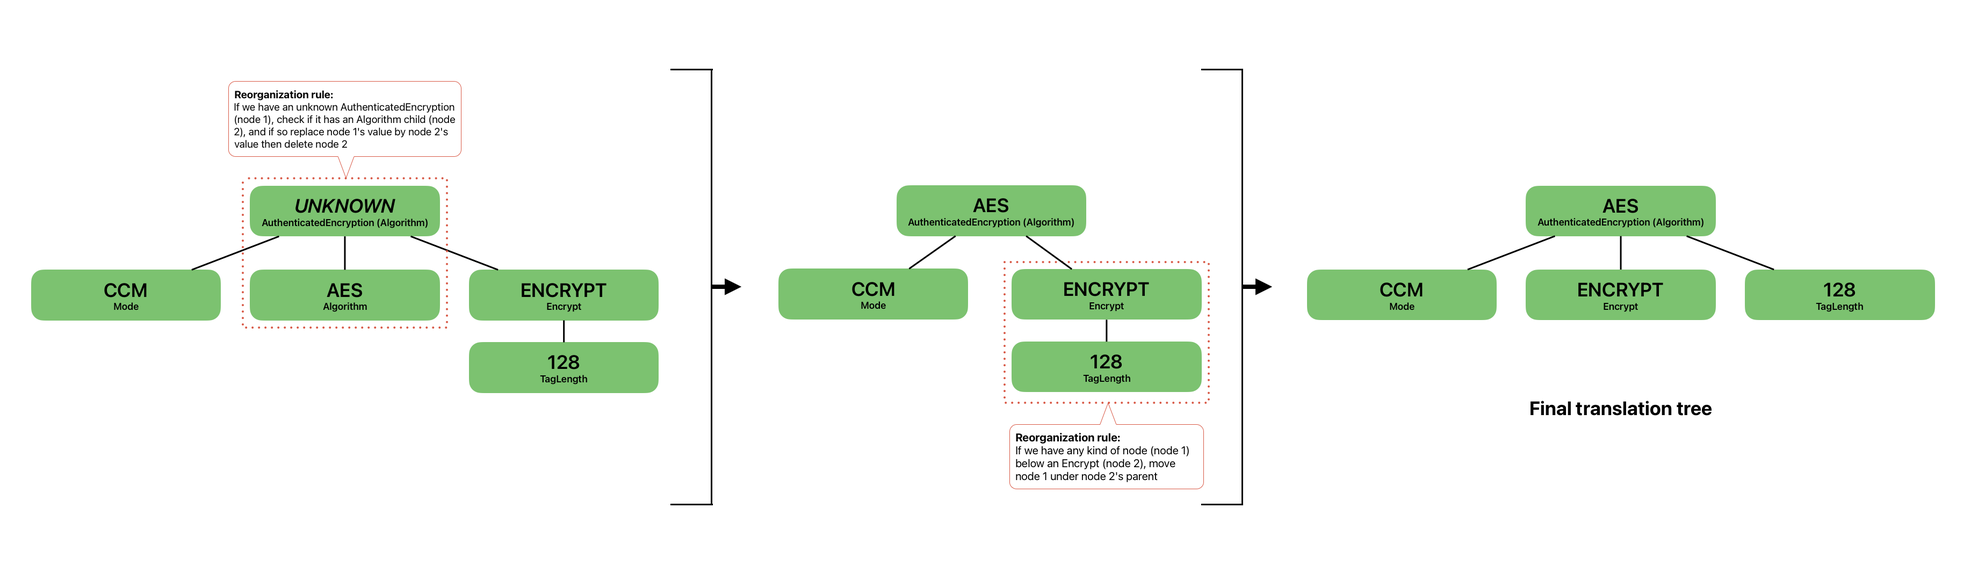
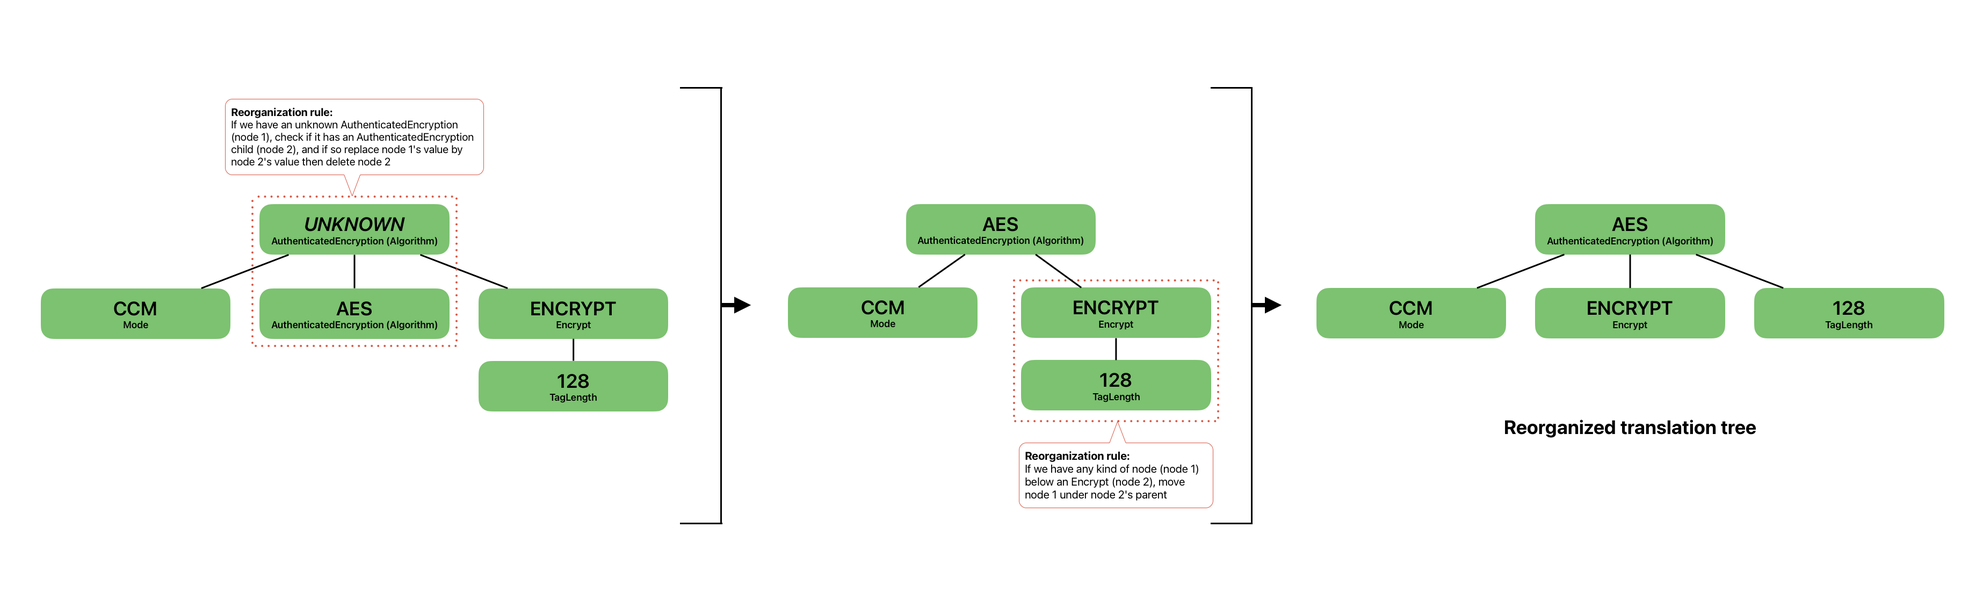
Update documentation (#156)
* changes rules image

* cbomkit mention

* clean translation process

* update language support doc

* update detection rules doc

* troubleshooting doc

---------

diff --git a/python/src/main/java/com/ibm/plugin/translation/PythonTranslationProcess.java b/python/src/main/java/com/ibm/plugin/translation/PythonTranslationProcess.java
@@ -27,7 +27,6 @@ import com.ibm.mapper.reorganizer.IReorganizerRule;
 import com.ibm.mapper.reorganizer.Reorganizer;
 import com.ibm.mapper.utils.Utils;
 import com.ibm.plugin.translation.translator.PythonTranslator;
-import java.util.Collection;
 import java.util.Collections;
 import java.util.List;
 import org.jetbrains.annotations.NotNull;
@@ -59,8 +58,8 @@ public final class PythonTranslationProcess
         Utils.printNodeTree("reorganised ", reorganizedValues);
 
         // 3. Enrich
-        final Collection<INode> enrichedValues = Enricher.enrich(reorganizedValues);
-        Utils.printNodeTree("  enriched  ", reorganizedValues);
+        final List<INode> enrichedValues = Enricher.enrich(reorganizedValues).stream().toList();
+        Utils.printNodeTree("  enriched  ", enrichedValues);
 
         return Collections.unmodifiableCollection(enrichedValues).stream().toList();
     }

diff --git a/java/src/main/java/com/ibm/plugin/translation/JavaTranslationProcess.java b/java/src/main/java/com/ibm/plugin/translation/JavaTranslationProcess.java
@@ -27,7 +27,6 @@ import com.ibm.mapper.reorganizer.IReorganizerRule;
 import com.ibm.mapper.reorganizer.Reorganizer;
 import com.ibm.mapper.utils.Utils;
 import com.ibm.plugin.translation.translator.JavaTranslator;
-import java.util.Collection;
 import java.util.Collections;
 import java.util.List;
 import javax.annotation.Nonnull;
@@ -61,8 +60,8 @@ public final class JavaTranslationProcess
         Utils.printNodeTree("reorganised", reorganizedValues);
 
         // 3. Enrich
-        final Collection<INode> enrichedValues = Enricher.enrich(reorganizedValues);
-        Utils.printNodeTree("enriched   ", reorganizedValues);
+        final List<INode> enrichedValues = Enricher.enrich(reorganizedValues).stream().toList();
+        Utils.printNodeTree("enriched   ", enrichedValues);
 
         return Collections.unmodifiableCollection(enrichedValues).stream().toList();
     }

diff --git a/docs/DETECTION_RULE_STRUCTURE.md b/docs/DETECTION_RULE_STRUCTURE.md
@@ -99,19 +99,17 @@ A detection context is therefore linked to each detected value, and is designed 
 For example, suppose you have two function calls `Cipher.getInstance("AES")` and `SecretKeyFactory.getInstance("AES")`. When writing detection rules to capture their cryptography information, you will in both cases capture the algorithm value "AES".
 But using the detection context, you can distinguish these two values. In the first case, using `buildForContext(new CipherContext())`, you can capture "AES" knowing that it is a cipher.
 In the second case, using `buildForContext(new SecretKeyContext())`, you can capture "AES" knowing that it is a secret key.
-Additionally, you can add more precise information in your context if necessary. For example, to specify that your AES cipher is a block cipher, you can use the specific context `buildForContext(new CipherContext(CipherContext.Kind.BLOCK_CIPHER))`. This context first coarsely categorizes your finding as related to ciphers, and specifies more precisely that it is a block cipher.
+Additionally, you can add more precise information in your context if necessary, using the constructor `DetectionContext(@Nonnull Map<String, String> properties)` to add (multiple) properties to any context.
+For example, to specify that your AES cipher is a block cipher, you can use the specific context `buildForContext(new CipherContext(Map.of("kind", "BLOCK_CIPHER"))`. This context first coarsely categorizes your finding as related to ciphers, and specifies more precisely that it is a block cipher.
 
 After, we have `inBundle(IBundle bundle)` that requires us to link our rule to a bundle identifier ([`IBundle`](../engine/src/main/java/com/ibm/engine/rule/IBundle.java)).
-Indeed, we may have several functions or constructors doing the same thing, typically all having the same name, but differing by the various parameters they have.
-In this case, we have to write one detection rule per function.
-But using the same bundle identifier for all these rules, we can specify that these rules all belong together.
+We typically use a short identifier of the cryptography library for the bundle, like "Jca" for JCA and "Bc" for BouncyCastle.
+This will then be useful when we translate the detected findings: we use the bundle identifier to distinguish between the cryptography libraries and apply an adequate translation.
 
 And finally, we can finish the specification of the detection rules by adding top level dependent detection rules with `withDependingDetectionRules(List<IDetectionRule<T>> detectionRules)` (or not, using `withoutDependingDetectionRules()` instead).
-These are similar to the parameter dependent rules, but instead of applying these rules on a parameter, they are applied to the object itself, i.e. to the object with which the rule matched in the first place. 
+These are similar to the parameter dependent rules, but instead of applying these rules on a parameter, they are applied to the object itself, i.e. to the object with which the rule matched in the first place[^2].
 
-> TODO: Currently, findings of top level dependent detection rules are added below *each* (top level and parameter) detections of the rules in the tree of detected values.
-> This is not a desired behavior as it duplicates information, and should be changed in the future.
-> This issue can be followed [here](https://github.com/IBM/sonar-cryptography/issues/12).
+[^2]: Currently, findings of top level dependent detection rules are added below *each* (top level and parameter) detections of the rules in the tree of detected values, *except* for parameter detections using `asChildOfParameterWithId`. More information [here](https://github.com/IBM/sonar-cryptography/pull/142).
 
 > [!TIP]
 > You will find all the classes implementing the action factories, value factories and contexts (that you may use in the functions described above) in the [`model`](../engine/src/main/java/com/ibm/engine/model/) directory of the engine.
@@ -144,7 +142,7 @@ new DetectionRuleBuilder<Tree>()
         .shouldBeDetectedAs(new BlockSizeFactory<>(Size.UnitType.BIT))
         .asChildOfParameterWithId(-1)
     .buildForContext(new CipherContext(CipherContext.Kind.MODE))
-    .inBundle(() -> "BcBlockCipher")
+    .inBundle(() -> "Bc")
     .withDependingDetectionRules(BcBlockCipherInit.rules());
 ```
 
@@ -157,6 +155,7 @@ This parameter detection is placed below the mode detection using `asChildOfPara
 To capture the first parameter, we rely instead on a list of dependent detection rules `BcBlockCipherEngine.rules()`, that should capture all the possible `BlockCipher` classes existing in the library. In our case, a dependent rule targeting `AESEngine.newInstance()` should capture the value "AES", with a context that should specify that it is the base cipher.
 
 Finally, a list of top level dependent detection rules `BcBlockCipherInit.rules()` should capture some information contained in the `cfb.init(...)` function call.
+This top level dependent detection should be placed only below the `BlockCipher` detection (and not below the `int` detection because it uses `asChildOfParameterWithId`).
 
 
 ### Special cases: no parameter and any parameters
@@ -188,14 +187,91 @@ Once you have written your detection rule, and once this rule detects findings w
 The aim of the translation is to represent these values in a standardized, language-independent tree in the cryptographic domain.
 For this, you should represent your cryptographic assets and values using the standard classes defined in the [`model`](../mapper/src/main/java/com/ibm/mapper/model/) directory of the *mapper* module (and not of the engine module like before).
 
-You should use the information contained in the detection context and the type of detection value to decide which type of translation you want to apply.
+### If your detected asset is generic
 
-With the help of some knowledge about cryptography, you can translate those findings into the correct model classes.
-It is straightforward to translate what you detected as an *Algorithm* (from `engine`) into an *Algorithm* (from `mapper`).
-But if you know that this algorithm is used for public key encryption in the specific context in which you detect it, you may keep this information by using the context `PublicKeyContext` in your detection rule, and then decide to translate it into a `PublicKeyEncryption` (which is a superclass of mapper's `Algorithm`).
+Let's start with the simplest case: suppose you are detecting a generic value, independent of any algorithm, like a key size.
+Suppose you detect the value `"256"` as a `KeySize`.
+In this case, you don't have to use algorithm-specific classes of our model, you can simply translate it to the appropriate equivalent class of the model, which is in this case `KeyLength`.
+This simple translation would look like:
+```java
+if (value instanceof KeySize<Tree> keySize) {
+    KeyLength keyLength = new KeyLength(keySize.getValue(), detectionLocation);
+    return Optional.of(keyLength);
+}
+```
 
-As a rule a thumb, there is almost always a straightforward translation of the assets you detect.
-But if you keep sufficiently enough information using the context and if you use some cryptography knowledge, you may translate your finding into a more specific class which will then bring more information into the CBOM.
+### If your detected asset is already specified in our model
+
+Let's suppose you detect the string `"AESEngine"` corresponding to the instantiation of a new AES block cipher.
+Because our model already contains the [`AES`](../mapper/src/main/java/com/ibm/mapper/model/algorithms/AES.java) algorithm, you can simply use it.
+This concretely means that in the mapper file (implementing [`IMapper`](../mapper/src/main/java/com/ibm/mapper/mapper/IMapper.java)) in which you are implementing this translation, you should return a `new Optional.of(new AES(detectionLocation))` when `parse("AESEngine", detectionLocation)` is called.
+
+Every time you are using one of these predefined model algorithm, you should have a look at its class: it may contain various constructors for various use cases.
+For example, if your `"AESEngine"` call was instead used for authenticated encryption (and you would carry this information through the detection context for example), you should instead translate it using the constructor `new AES(AuthenticatedEncryption.class, detectionLocation)`.
+
+### If your detected asset is not yet specified in our model: add it!
+
+Suppose you are detecting the string `"KalynaEngine"`, corresponding to the Kalyna block cipher which is not yet part of our model.
+We explain how you can add Kalyna to our general model, which you can then use for your translation.
+
+First, find resources about Kalyna, like its [Wikipedia page](https://en.wikipedia.org/wiki/Kalyna_(cipher)) or an official [paper](https://eprint.iacr.org/2015/650.pdf).
+Kalyna is also sometimes referred as "DSTU 7624:2014", which we will add to the class documentation.
+
+Using this knowledge, we first need to find the _base class_ of Kalyna: is it an [`Algorithm`](../mapper/src/main/java/com/ibm/mapper/model/Algorithm.java), [`Mode`](../mapper/src/main/java/com/ibm/mapper/model/Mode.java), [`Padding`](../mapper/src/main/java/com/ibm/mapper/model/Padding.java), [`EllipticCurve`](../mapper/src/main/java/com/ibm/mapper/model/EllipticCurve.java) or [`Protocol`](../mapper/src/main/java/com/ibm/mapper/model/Protocol.java)? It is an `Algorithm`.
+
+Then, we look into the _primitives_ which can apply to Kalyna: these are the classes at the root of [`model`](../mapper/src/main/java/com/ibm/mapper/model/) implementing [`IPrimitive`](../mapper/src/main/java/com/ibm/mapper/model/IPrimitive.java).
+Kalyna is mainly used as a [`BlockCipher`](../mapper/src/main/java/com/ibm/mapper/model/BlockCipher.java), but can also be used as a [`Mac`](../mapper/src/main/java/com/ibm/mapper/model/Mac.java) or a [`KeyWrap`](../mapper/src/main/java/com/ibm/mapper/model/KeyWrap.java).
+
+Therefore, we start writing the class [`Kalyna`](../mapper/src/main/java/com/ibm/mapper/model/algorithms/Kalyna.java), with its basic documentation, as:
+```java
+/**
+ *
+ *
+ * <h2>{@value #NAME}</h2>
+ *
+ * <p>
+ *
+ * <h3>Specification</h3>
+ *
+ * <ul>
+ *   <li>https://en.wikipedia.org/wiki/Kalyna_(cipher)
+ *   <li>https://eprint.iacr.org/2015/650.pdf
+ * </ul>
+ *
+ * <h3>Other Names and Related Standards</h3>
+ *
+ * <ul>
+ *   <li>DSTU 7624:2014
+ * </ul>
+ */
+public final class Kalyna extends Algorithm implements BlockCipher, Mac, KeyWrap {
+
+    private static final String NAME = "Kalyna";
+```
+
+You then should define multiple constructors which could be useful in the context of Kalyna.
+Because it is primarily a `BlockCipher`, let's add a basic constructor, and a second one adding the size of the block:
+```java
+public Kalyna(@Nonnull DetectionLocation detectionLocation) {
+    super(NAME, BlockCipher.class, detectionLocation);
+}
+
+public Kalyna(int blockSize, @Nonnull DetectionLocation detectionLocation) {
+    this(detectionLocation);
+    this.put(new BlockSize(blockSize, detectionLocation));
+}
+```
+
+Here, we have added the `BlockSize` as a parameter, but there are a lot of other building blocks in this cryptography model. You can explore all the possibilities at the root of [`model`](../mapper/src/main/java/com/ibm/mapper/model/) and in its [`functionality`](../mapper/src/main/java/com/ibm/mapper/model/functionality/) subdirectory.
+
+However, it is important to note that Kalyna is not _always_ a `BlockCipher` (as it also implements `Mac` and `KeyWrap`), and an easy way to let the user instantiate a Kalyna with the kind of its choice is to have this kind of constructor:
+```java
+public Kalyna(@Nonnull final Class<? extends IPrimitive> asKind, @Nonnull Kalyna kalyna) {
+    super(kalyna, asKind);
+}
+```
+
+### The output of the translation
 
 The translation of the tree of detected findings is done node-by-node.
 A tree of translated values is built while you are translating your detected values.
@@ -204,7 +280,7 @@ This means that the translation of a child node of a detected value will be appe
 
 | ![example of the node-by-node translation process](./images/translation.png) | 
 |:--:| 
-| *This diagram represents the node-by-node translation process. In blue, we have the tree of detected values. The dotted lines show that each detected value gets independently translated into some translated value(s), in green. At the end of the node-by-node translation process, we have a tree of translated values (right part of the diagram) which is composed of each translated value, linked with the same ordering as the tree of detected values. This current result is not satisfying, and we will explain next how we can reorganize this tree of translated values.* |
+| *This diagram represents the node-by-node translation process. In blue, we have the tree of detected values. The dotted lines show that each detected value gets independently translated into some translated value(s), in green. Note that we translate `CCMBlockCipher` into an `UNKNOWN` authenticated encryption node with a `CCM` mode node, to avoid having the mode as the parent of the algorithm (`AES`), which will make the next step (reorganization) a bit simpler. At the end of the node-by-node translation process, we have a tree of translated values (right part of the diagram) which is composed of each translated value, linked with the same ordering as the tree of detected values. This current result is not satisfying, and we will explain next how we can reorganize this tree of translated values.* |
 
 ## Reorganizing the translation tree
 

diff --git a/docs/LANGUAGE_SUPPORT.md b/docs/LANGUAGE_SUPPORT.md
@@ -76,7 +76,9 @@ The tree does not contain any semantic information about how the cryptographic v
 Ultimately, we want a meaningful representation of all cryptography-relevant values: a tree structure in which the relationships between the nodes have a meaning.
 Back to our example, we want a tree where the mode is a child node of the algorithm node, to indicate that it's the mode of this algorithm.
 
-This process of building a meaningful tree representation of the captured cryptography values is called the translation. This process is also part of the language module (like the `java` or `python` module). In certain cases where translation requires to parse a string, the parsing and translation process is outsourced to the `mapper` module for better modularity.
+This process of building a meaningful tree representation of the captured cryptography values is called the translation. This process is also part of the language module (like the `java` or `python` module).
+The translation process requires at some point to map those captured cryptography strings to a standard representation of the cryptography asset.
+For better modularity, this mapping is done as part of the `mapper` module.
 
 The last step of the translation process is called the enrichment, and is done by the `enricher` module.
 This step aims at adding content to the translated tree, based on external knowledge.
@@ -129,6 +131,17 @@ And add the dependency (using this version reference) under `<!-- language suppo
     <artifactId>sonar-java-plugin</artifactId>
     <version>${sonar.java.version}</version>
 </dependency>
+```
+
+### Specifying related file extensions
+
+Now, open the [`pom.xml`](../sonar-cryptography-plugin/pom.xml) of the `sonar-cryptography-plugin` module, and look for the tag `<requiredForLanguages>`.
+This is where you should specify the file extensions for which you want the plugin to run.
+In the case of Java, we want the Cryptography Plugin to run on `.java` and `.jsp` files, so we add these file extensions inside the tag, in addition to already existing ones (like `py` and `ipynb` below). 
+
+```xml
+<!-- This line must specify all file extensions which should be scanned by the plugin -->
+<requiredForLanguages>java,jsp,py,ipynb</requiredForLanguages>
 ```
 
 ### Identifying the four classes to use in generics
@@ -434,10 +447,9 @@ public static List<IDetectionRule<Tree>> rules() {
 Once this is done, try to run your unit test and look at the logs.
 If it works, you should see logs[^4] of your detected values, in a tree structure looking like this (but with the values of your test file that you specified to detect in *MyRule*):
 ```
-DEBUG [id: 1c259, bundle: -2060…, level: 0, hash: -8884…] (CipherContext<BLOCK_CIPHER>, ValueAction) CBC
-DEBUG [id: f5b9a, bundle: 21061…, level: 1, hash: 13077…]    └─ (CipherContext<ENCRYPTION_STATUS>, OperationMode) 0
-DEBUG [id: 7b818, bundle: 92146…, level: 1, hash: -4294…]    └─ (CipherContext<BLOCK_CIPHER_ENGINE>, ValueAction) AES
-DEBUG [id: 8d2d8, bundle: 21061…, level: 2, hash: 13077…]       └─ (CipherContext<ENCRYPTION_STATUS>, OperationMode) 0
+[id: afeca, bundle: Bc, level: 0, hash: -1948…] (CipherContext<{kind=BLOCK_CIPHER}>, ValueAction) CBCBlockCipher
+[id: cca99, bundle: Bc, level: 1, hash: 10584…]    └─ (CipherContext<{kind=ENCRYPTION_STATUS}>, OperationMode) 0
+[id: bb6ad, bundle: Bc, level: 1, hash: -6352…]    └─ (CipherContext<{kind=BLOCK_CIPHER_ENGINE}>, ValueAction) AESEngine
 ```
 
 [^4]: If you wrote your own `TestBase`, make sure that you call the `DetectionStoreLogger.print(DetectionStore ds)` method at the right place to display your findings in the logs.
@@ -487,9 +499,8 @@ java
             ├── translator
             │   └── contexts
             └── reorganizer
-                └── rules
 ```
-<p align="right"><a href="https://tree.nathanfriend.io/?s=(%27opt7s!(%27fancy!true~fullPath3~trailingSlash3~rootDot3)~8(%278%272java52src5*2main%2Fjava%2Fcom%2Fibm%2Fplugin09042detect7A42mycryptoA42...%20%5Bother%20libraries%5D067A6orA*2contextsA2reorganizerA*9%27)~vers7!%271%27)4%2005**2-%203!false4*%205%5Cn*62translat7ion8source!92rulesA0*%01A987654320*"><sub><sup>edit this tree<sub><sup></a></p>
+<p align="right"><a href="https://tree.nathanfriend.io/?s=(%27opt7s!(%27fancy!true~fullPath3~trailingSlash3~rootDot3)~8(%278%272java49src4*9main%2Fjava%2Fcom%2Fibm%2Fplugin02rules052detect7A52mycryptoA52...%20%5Bother%20libraries%5D067A6orA9contexts09reorganizer4%27)~vers7!%271%27)5%2004**9-%203!false4%5Cn5*%2062translat7ion8source!9*2A0*%01A987654320*"><sub><sup>edit this tree<sub><sup></a></p>
 
 #### The translator
 
@@ -498,19 +509,30 @@ In Java, this is the [`JavaTranslator`](../java/src/main/java/com/ibm/plugin/tra
 
 For better structure, we advise to split the translation in multiple files based on the detection context of the detected values.
 We therefore advise creating one translator file per detection context, and to store them in `translation/translator/contexts/`.
+Each of these files should implement the interface [`IContextTranslation`](../mapper/src/main/java/com/ibm/mapper/IContextTranslation.java).
 In your main translator file, you can switch over the detection context of the values of your detection store, and delegate the actual translation work to the context translator files.
 Look at how it is done in Java for more details.
 
-Additionally, if translating your assets implies parsing complicated strings (typically like `"AES/ECB/PKCS5Padding"` in Java's JCA), we recommend handling the parsing with dedicated classes of the `mapper` module.
-These classes should be in the `mapper/.../mapper/mapper/mycrypto/` directory and should implement the [`IMapper`](../mapper/src/main/java/com/ibm/mapper/mapper/IMapper.java) interface.
+In each context translation file, you may want to have a different translation process depending on the cryptography library.
+If so, have a look to how it is done in Java, where an abstract class [`JavaAbstractLibraryTranslator`](../java/src/main/java/com/ibm/plugin/translation/translator/contexts/JavaAbstractLibraryTranslator.java) implementing `IContextTranslation` is defined, and performs a switch on the bundle identifier to distinguish between the various cryptography libraries.
+Then, the various classes in the `context` folder extend this abstract class, and implement library-specific translation functions.
+
+Then for each context, you want to map each detected value (often a string) to a "standard" representation of this asset.
+Such representations form what we call the cryptography _model_, and you can find a wide variety of classes describing algorithms, modes, paddings and others in the subfolders of the mapper's [`model`](../mapper/src/main/java/com/ibm/mapper/model/) folder.
+The mapping should therefore link detected values to model classes, and should be done in the `mapper` module, with classes in the `mapper/.../mapper/mapper/mycrypto/` directory which should implement the [`IMapper`](../mapper/src/main/java/com/ibm/mapper/mapper/IMapper.java) interface.
+Typically, a mapper file provides a switch statement over a variety of possible detected values, and maps each value to a class of the `model`.
+When translating your detected values implies parsing complicated strings (typically like `"AES/ECB/PKCS5Padding"` in Java's JCA), the parsing should also be handled in those mapper classes.
+
+Ultimately, those mapper classes can be called from your context-specific translation functions.
 
 You can now add content to these files to translate the findings from your first detection rule, following the section [*Translating findings of a detection rule*](./DETECTION_RULE_STRUCTURE.md#translating-findings-of-a-detection-rule).
 
 #### The reorganization
 
-In the directory `translation/reorganizer/`, start by creating your file listing all reorganization rules for your language. In Java, this is the [`JavaReorganizerRules`](../java/src/main/java/com/ibm/plugin/translation/reorganizer/JavaReorganizerRules.java) class.
+Reorganization rules can be added in the [`reorganizer/rules/`](../mapper/src/main/java/com/ibm/mapper/reorganizer/rules/) directory of the mapper, independently of the programming language and cryptography library (a same rule could be reused in multiple cases).
+You can use the helpers defined in [`UsualPerformActions.java`](../mapper/src/main/java/com/ibm/mapper/reorganizer/UsualPerformActions.java) to easily write common reorganization rules.
 
-All these reorganization rules should then be stored in `translation/reorganizer/rules/`, with the structure of your choice.
+Then, in the directory `translation/reorganizer/`, create a file listing all reorganization rules for your language. In Java, this is the [`JavaReorganizerRules`](../java/src/main/java/com/ibm/plugin/translation/reorganizer/JavaReorganizerRules.java) class.
 
 If necessary, you can now reorganize the translation of the findings of your first detection rule, following the section [*Reorganizing the translation tree*](./DETECTION_RULE_STRUCTURE.md#reorganizing-the-translation-tree).
 
@@ -521,6 +543,7 @@ In `translation/`, start by creating a file controlling the translation process 
 In Java, this is [`JavaTranslationProcess`](../java/src/main/java/com/ibm/plugin/translation/JavaTranslationProcess.java).
 
 This is where you will apply the translation and reorganization steps, as well as the enrichment process, which is a step adding external information to the translation tree, as mentioned [earlier](#the-translation).
+Make sure to log the translated, reorganized and enriched trees of findings by calling `Utils.printNodeTree(List<INode> nodes)` at the right places (with `Utils` from `com.ibm.mapper.utils`).
 These steps must be called in the `initiate` function, which looks like this in Java:
 ```java
 @Override
@@ -529,26 +552,29 @@ public List<INode> initiate(
     @Nonnull
         DetectionStore<JavaCheck, Tree, Symbol, JavaFileScannerContext> rootDetectionStore) {
     // 1. Translate
-    JavaTranslator javaTranslator = new JavaTranslator(rule);
-    List<INode> translatedValues = javaTranslator.translate(rootDetectionStore);
+    final JavaTranslator javaTranslator = new JavaTranslator();
+    final List<INode> translatedValues = javaTranslator.translate(rootDetectionStore);
+    Utils.printNodeTree("translated ", translatedValues);
 
     // 2. Reorganize
-    Reorganizer javaReorganizer = new Reorganizer(reorganizerRules);
-    List<INode> reorganizedValues = javaReorganizer.reorganize(translatedValues);
+    final Reorganizer javaReorganizer = new Reorganizer(reorganizerRules);
+    final List<INode> reorganizedValues = javaReorganizer.reorganize(translatedValues);
+    Utils.printNodeTree("reorganised", reorganizedValues);
 
     // 3. Enrich
-    Enricher.enrich(reorganizedValues);
+    final List<INode> enrichedValues = Enricher.enrich(reorganizedValues).stream().toList();
+    Utils.printNodeTree("enriched   ", enrichedValues);
 
-    return reorganizedValues;
+    return Collections.unmodifiableCollection(enrichedValues).stream().toList();
 }
 ```
 
 Finally, this translation process file should be registered in two places:
 - In your class implementing the language-specific sonar visitor class ([`JavaBaseDetectionRule`](../java/src/main/java/com/ibm/plugin/rules/detection/JavaBaseDetectionRule.java) in Java), mentioned in [here](#the-check-registrar-extension-point).
-- In your `TestBase` class ([`TestBase`](../java/src/test/java/com/ibm/plugin/TestBase.java) in Java), mentioned in [here](#organizing-your-files). Also makes sure to log the translated tree of findings by calling `Utils.printNodeTree(List<INode> nodes)` at the right place (with `Utils` from `com.ibm.mapper.utils`).
+- In your `TestBase` class ([`TestBase`](../java/src/test/java/com/ibm/plugin/TestBase.java) in Java), mentioned in [here](#organizing-your-files).
 
 You can now run again your unit test to check whether your detected values are correctly translated.
-If your implementation works, you should observe logs displaying the translated (and potentially reorganized) trees, after the initial logs of the detected values.
+If your implementation works, you should observe logs displaying the translated (and potentially reorganized/enriched) trees, after the initial logs of the detected values.
 
 
 ### Writing assert statements
@@ -560,7 +586,7 @@ For this, we advise writing exhaustive assert statements for each unit test, che
 You can look into existing unit tests to know how these assert statements are written.
 
 If you have to write a lot of assert statements for a lot of detection rules, you may want to automate this process.
-While we do not provide a generic methodology to do so, we have done it for Java, with [`GenerateAssertsHelper`](../java/src/test/java/com/ibm/plugin/utils/GenerateAssertsHelper.java) (documented in its file), which can easily be reused for another language, requiring only minor modifications.
+While we do not provide a generic methodology to do so, we have done it for Java (and Python), with [`GenerateAssertsHelper`](../java/src/test/java/com/ibm/plugin/utils/GenerateAssertsHelper.java) (documented in its file), which can easily be reused for another language, requiring only minor modifications.
 
 
 ### Going further: using graph visualization to better understand dependent detection rules

diff --git a/docs/TROUBLESHOOTING.md b/docs/TROUBLESHOOTING.md
@@ -4,7 +4,7 @@ If you are new to SonarQube, or if you did not manage to obtain results with our
 
 ## Installing SonarQube with the plugin
 > [!IMPORTANT]
-> Make sure you use a version of SonarQube supported by our plugin. Currently, SonarQube versions `10.5` and above (including the latest) version are not supported, and we advise installing SonarQube `10.4`.
+> Make sure you use a version of SonarQube supported by our plugin. See [here](../README.md#version-compatibility).
 
 ### If you already have a SonarQube instance
 Follow the [Installation](../README.md#installation) paragraph of the main [`README.md`](../README.md) to add the latest released plugin to your SonarQube instance.
@@ -16,7 +16,7 @@ In this case, we advise you to use our [`docker-compose.yaml`](../docker-compose
 
 To do so, start by opening this repo and `git checkout` to the latest release branch (for example, at the time of writing this document, it is `release/1.2.0`).
 
-Open the [`docker-compose.yaml`](../docker-compose.yaml) file and check the `image` argument to make sure that it uses a version of SonarQube supported by our plugin. In our case, yes, it is `sonarqube:10.4-community`.
+Open the [`docker-compose.yaml`](../docker-compose.yaml) file and check the `image` argument to make sure that it uses a version of SonarQube supported by our plugin.
 
 You then need to have a `.jar` plugin in the `.SonarQube/plugins/` directory. There are two options for this:
 - Easiest way: download the `.jar` file from the [latest releases](https://github.com/IBM/sonar-cryptography/releases) GitHub page and move it to this directory. In our case, it is named `sonar-cryptography-plugin-1.2.0.jar`.
@@ -35,7 +35,6 @@ You should then be able to access the SonarQube UI at `http://localhost:9000`.
 
 #### Managing your own Docker installation 
 Alternatively, you can follow these [SonarQube instructions](https://docs.sonarsource.com/sonarqube/latest/setup-and-upgrade/install-the-server/installing-sonarqube-from-docker/) to manage your own Docker installation.
-Make sure to use the right version of the Docker image (we advise using `sonarqube:10.4-community`).
 
 ---
 

diff --git a/README.md b/README.md
@@ -1,4 +1,4 @@
-# Sonar Cryptography Plugin
+# Sonar Cryptography Plugin (CBOMkit-hyperion)
 
 [![License](https://img.shields.io/github/license/IBM/sonar-cryptography.svg?)](https://opensource.org/licenses/Apache-2.0) <!--- long-description-skip-begin -->
 [![Current Release](https://img.shields.io/github/release/IBM/sonar-cryptography.svg?logo=IBM)](https://github.com/IBM/sonar-cryptography/releases)
@@ -6,6 +6,7 @@
 
 This repository contains a SonarQube Plugin that detects cryptographic assets 
 in source code and generates [CBOM](https://cyclonedx.org/capabilities/cbom/).
+It is part of **the [CBOMKit](https://github.com/IBM/cbomkit) toolset**.
 
 ## Version compatibility
 
@@ -58,7 +59,7 @@ This plugin incorporates rules specifically focused on cryptography.
 > To generate a Cryptography Bill of Materials (CBOM), it is mandatory to activate at 
 > least one of these cryptography-related rules.
 
-![Activate Rules Crypto Rules](.github/img/rules.png)
+![Activate Rules Crypto Rules](docs/images/rules.png)
 
 As of the current version, the plugin contains one single rule for creating a cryptographic inventory. 
 Future updates may introduce additional rules to expand functionality.
